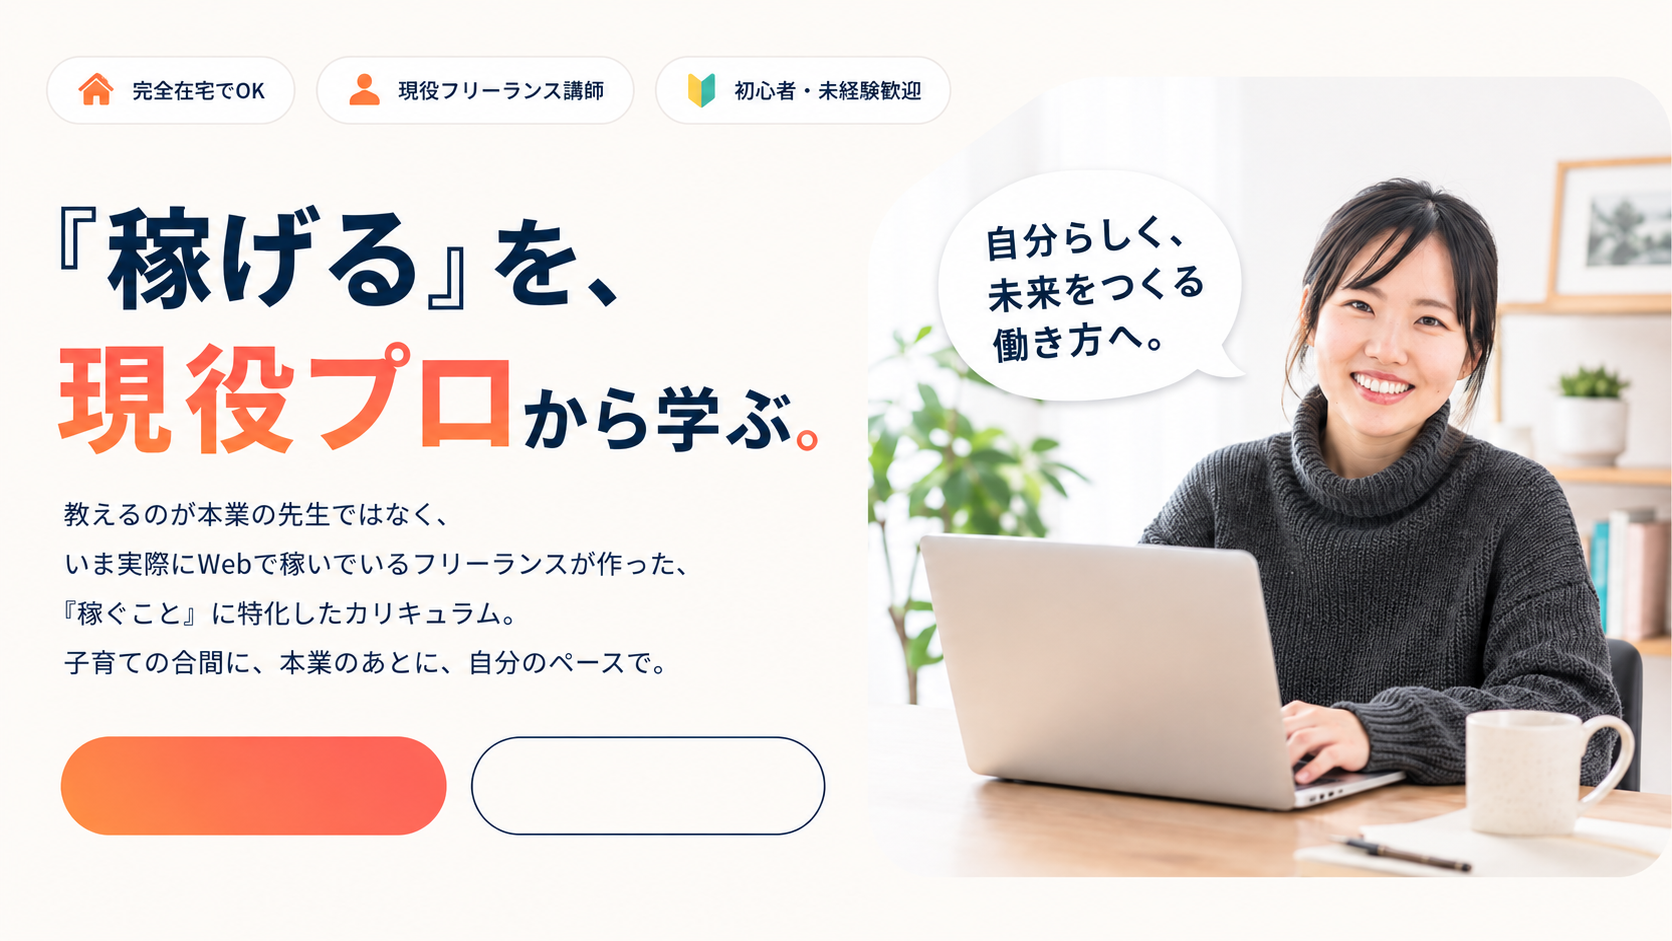
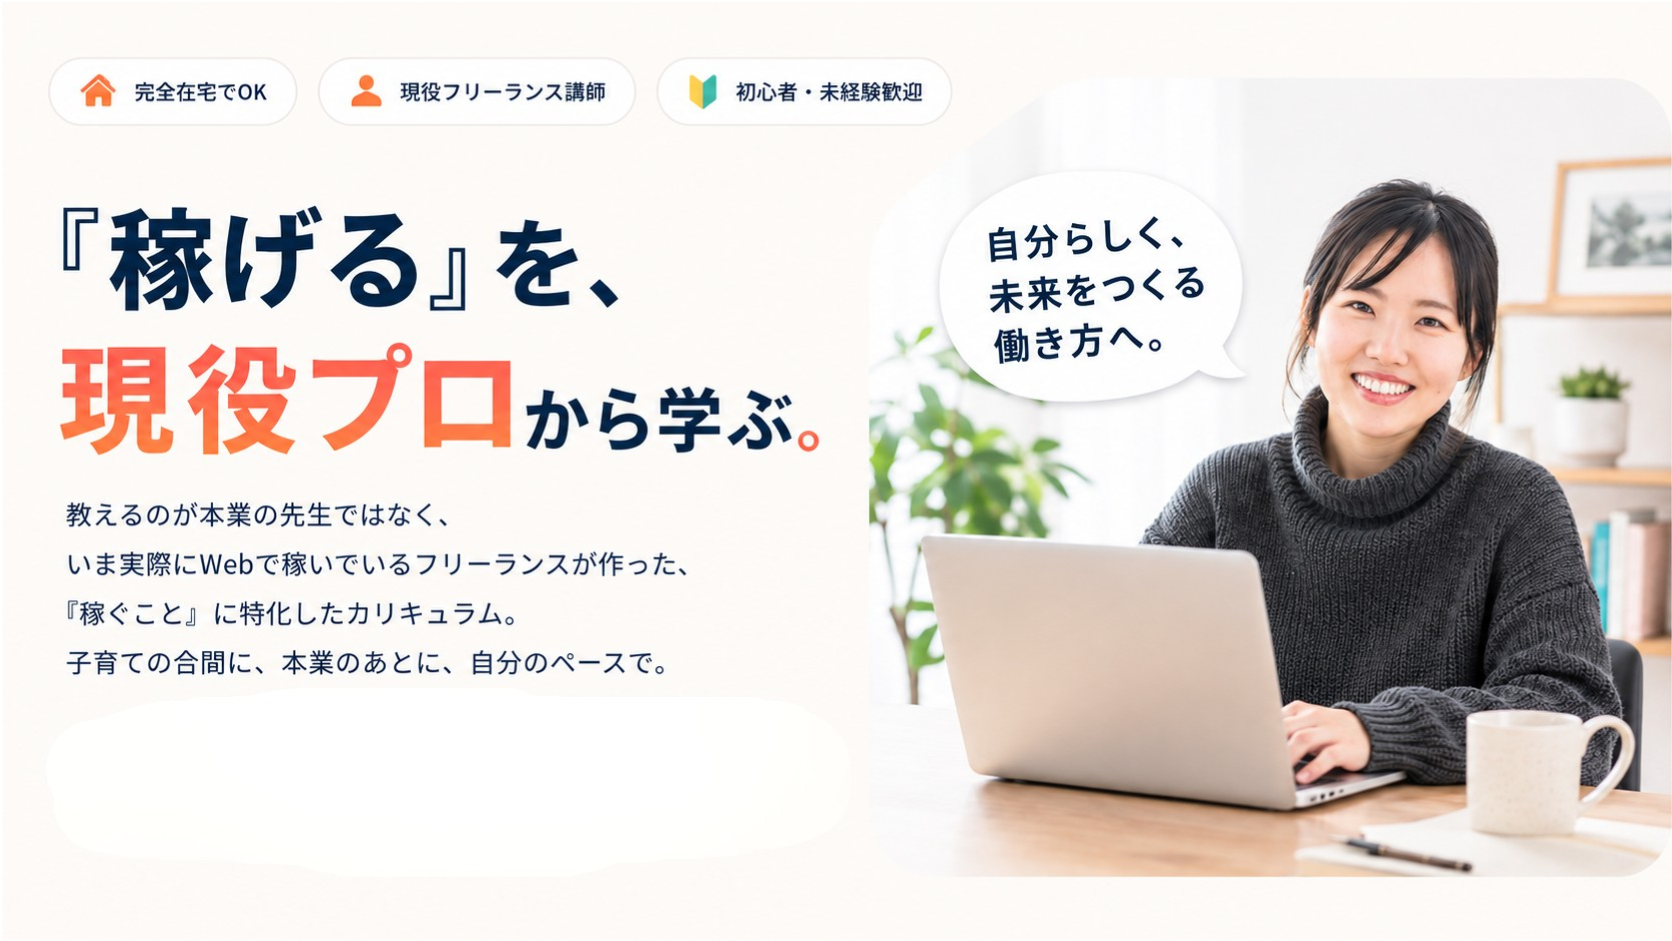
ヒーロー画像更新・CTAボタン大型化
- hero.png をガイドなし版に差し替え
- CTAボタンを大きく（font-size 1.55vw、padding 1em 2.4em）
- 配置をbottom:17% left:3.5%に調整

diff --git a/index.html b/index.html
@@ -122,26 +122,27 @@ header{
 .hero-img-wrap img{width:100%;display:block}
 .hero-cta-pos{
   position:absolute;
-  left:3.2%;
-  bottom:14.5%;
+  left:3.5%;
+  bottom:17%;
   display:flex;
-  gap:1.6%;
+  gap:2%;
 }
 .hbtn-main{
-  font-size:clamp(.7rem,1.15vw,.95rem);
-  padding:.85em 1.8em;
+  font-size:clamp(.9rem,1.55vw,1.15rem);
+  padding:1em 2.4em;
   white-space:nowrap;
+  box-shadow:0 6px 22px rgba(249,115,22,.5);
 }
 .hbtn-sub{
-  font-size:clamp(.7rem,1.15vw,.95rem);
-  padding:.85em 1.8em;
+  font-size:clamp(.9rem,1.55vw,1.15rem);
+  padding:1em 2.4em;
   white-space:nowrap;
   background:rgba(255,255,255,.92);
   color:var(--dark2);
-  box-shadow:0 4px 16px rgba(0,0,0,.12);
-  border:1.5px solid #ddd;
+  box-shadow:0 4px 16px rgba(0,0,0,.15);
+  border:1.5px solid rgba(0,0,0,.12);
 }
-.hbtn-sub:hover{background:#fff;box-shadow:0 8px 24px rgba(0,0,0,.18);filter:none}
+.hbtn-sub:hover{background:#fff;box-shadow:0 8px 24px rgba(0,0,0,.2);filter:none;transform:translateY(-3px)}
 
 /* SP版ヒーロー */
 .hero-mobile{